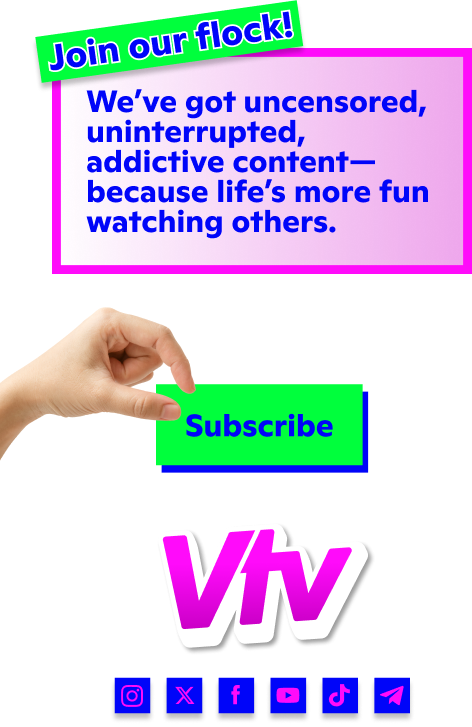
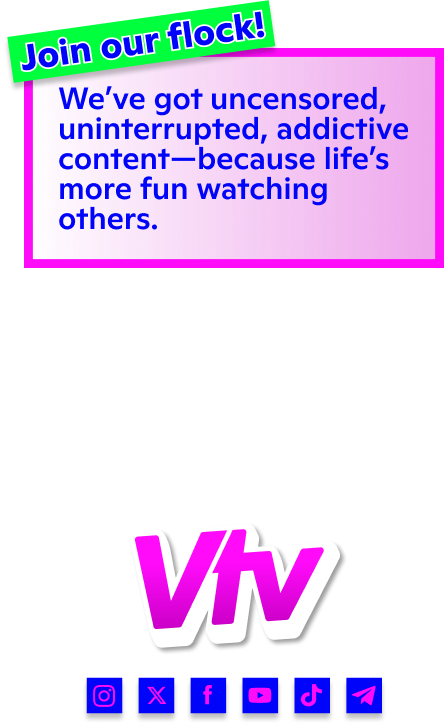
Aggiornamento automatico

Changed region(s): [[0.0, 0.0, 1.0, 0.3934], [0.1757, 0.7263, 0.8784, 0.9986], [0.0, 0.4237, 0.7905, 0.6657]]

diff --git a/output.html b/output.html
@@ -141,9 +141,14 @@
 	position: relative;
 	}
 	.section-5 .text-image {
-	max-width: 90%; /* Adatta la larghezza per dispositivi mobili */
-	margin-top: 15px;
+	max-width: 100%; /* Adatta la larghezza per dispositivi mobili */
+	margin-top: 100px;
+	margin-left: 15px;
+	}
+        .section-5 img.mano {
+	width: 300px;
 	position: absolute;
+	top: 10px;
 	left: 0px;
 	}
 	</style>
@@ -187,6 +192,7 @@
 	<!-- Sezione 5 -->
 	<div class="section section-5">
 	<img src="https://raw.githubusercontent.com/MarcoToon/output/refs/heads/main/section-5-text.png" alt="Section Text" class="text-image"></div>
+	<img src="https://raw.githubusercontent.com/MarcoToon/output/refs/heads/main/mano.png" alt="Mano" class="mano">
 	</div>
 	</body>
 	</html>
